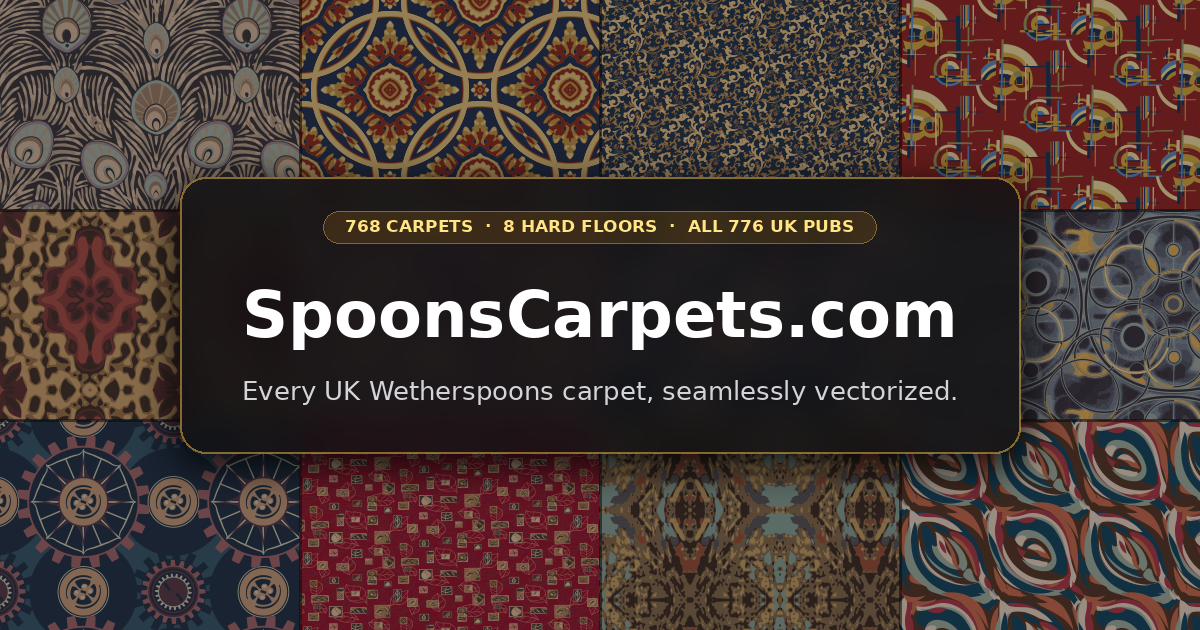
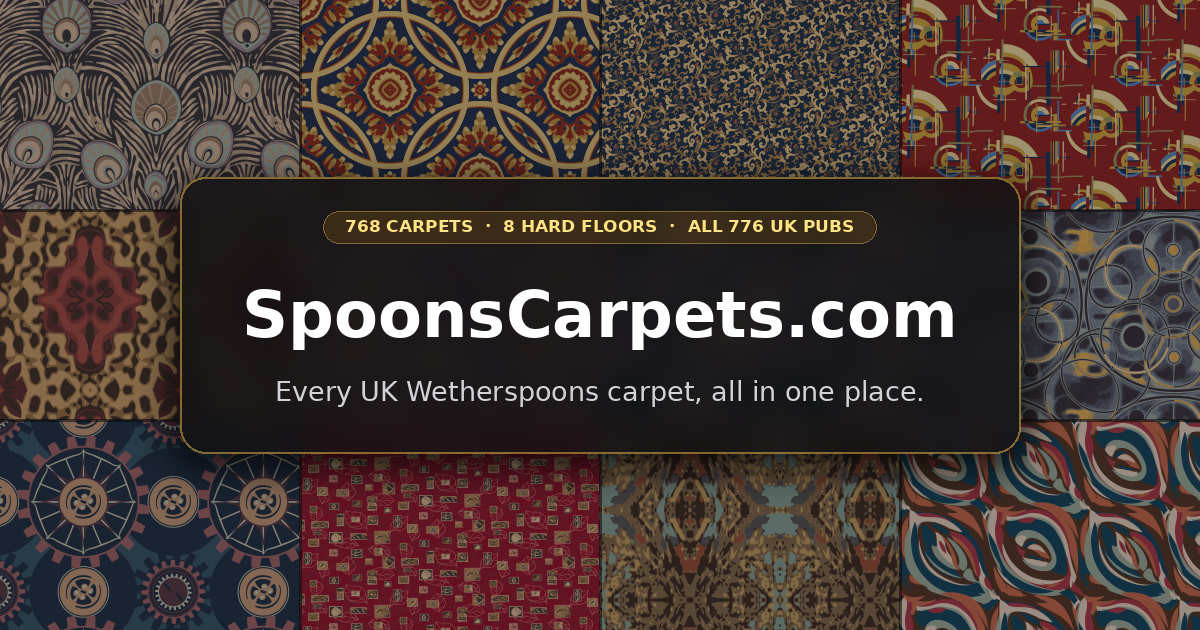
Tighten metadata copy and OG subtitle

Changed region(s): [[0.185, 0.6032, 0.8017, 0.6333]]

diff --git a/index.html b/index.html
@@ -22,20 +22,20 @@
       href="https://fonts.googleapis.com/css2?family=DM+Sans:wght@400;500;600;700&amp;family=Pacifico&amp;display=swap"
     />
 
-    <title>SpoonsCarpets.com — Every UK Wetherspoons Carpet, Vectorized</title>
+    <title>SpoonsCarpets.com — Every UK Wetherspoons Carpet</title>
     <meta
       name="description"
-      content="Explore all 768 seamlessly vectorized Axminster pub carpets (plus the 8 confirmed carpet-free pubs) across every J D Wetherspoon in the UK. Search by pub, town, colour, or nearest venue."
+      content="Explore all 768 UK Wetherspoons pub carpets (plus the 8 carpet-free pubs). Search by pub, town, colour, or nearest venue, and download phone wallpapers."
     />
 
     <!-- Open Graph -->
     <meta property="og:type" content="website" />
     <meta property="og:site_name" content="SpoonsCarpets.com" />
     <meta property="og:url" content="https://spoonscarpets.com/" />
-    <meta property="og:title" content="SpoonsCarpets.com — Every UK Wetherspoons Carpet, Vectorized" />
+    <meta property="og:title" content="SpoonsCarpets.com — Every UK Wetherspoons Carpet" />
     <meta
       property="og:description"
-      content="768 seamlessly vectorized Axminster pub carpets + 8 carpet-free hard floors across all 776 UK Wetherspoons. Search by pub, colour, or nearest Spoons, and export phone wallpapers."
+      content="All 768 UK Wetherspoons pub carpets plus the 8 carpet-free pubs. Search by pub, town, colour, or nearest Spoons, and download phone wallpapers."
     />
     <meta property="og:image" content="https://spoonscarpets.com/og-image.png" />
     <meta property="og:image:type" content="image/png" />
@@ -43,15 +43,15 @@
     <meta property="og:image:height" content="630" />
     <meta
       property="og:image:alt"
-      content="Mosaic of 12 seamlessly vectorized UK Wetherspoons pub carpets with the SpoonsCarpets.com title"
+      content="Mosaic of 12 UK Wetherspoons pub carpets with the SpoonsCarpets.com title"
     />
 
     <!-- Twitter / X -->
     <meta name="twitter:card" content="summary_large_image" />
-    <meta name="twitter:title" content="SpoonsCarpets.com — Every UK Wetherspoons Carpet, Vectorized" />
+    <meta name="twitter:title" content="SpoonsCarpets.com — Every UK Wetherspoons Carpet" />
     <meta
       name="twitter:description"
-      content="All 768 UK Wetherspoons carpets seamlessly vectorized, plus the 8 hard-floor rebels. Search by pub, town, colour, or download phone wallpapers."
+      content="Every UK Wetherspoons carpet, all in one place. Search 776 pubs by name, town, colour, or download phone wallpapers."
     />
     <meta name="twitter:image" content="https://spoonscarpets.com/og-image.png" />
 
@@ -62,7 +62,7 @@
         "@type": "CollectionPage",
         "name": "SpoonsCarpets.com",
         "url": "https://spoonscarpets.com/",
-        "description": "An open archive of 768 seamlessly vectorized Axminster carpet SVG repeat tiles and 8 photo-matched hard-floor tiles covering all 776 UK J D Wetherspoon pubs.",
+        "description": "The complete archive of 768 UK J D Wetherspoon pub carpets and 8 confirmed carpet-free pubs.",
         "image": "https://spoonscarpets.com/og-image.png",
         "isPartOf": {
           "@type": "WebSite",

diff --git a/src/App.tsx b/src/App.tsx
@@ -90,7 +90,7 @@ export default function App() {
       url.searchParams.delete("pub");
       setFloorMode(false);
       setDevOpen(false);
-      document.title = "SpoonsCarpets.com — Every UK Wetherspoons Carpet, Vectorized";
+      document.title = "SpoonsCarpets.com — Every UK Wetherspoons Carpet";
     }
     window.history.replaceState(null, "", url.toString());
   }, [selected]);
